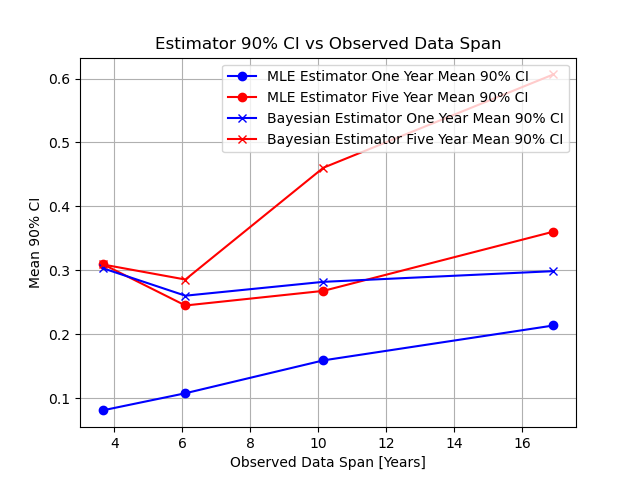
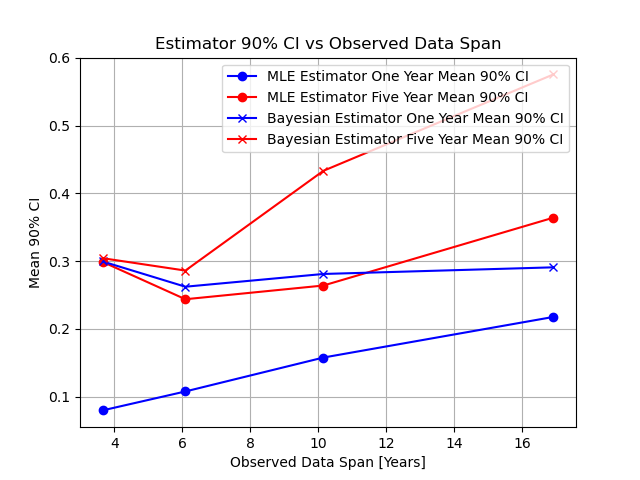
Applied parallel sampling for predictions.

diff --git a/ARIMA/examples/mortality.py b/ARIMA/examples/mortality.py
@@ -7,9 +7,10 @@ import numpy as np
 import pyro
 from torch.distributions.transforms import ExpTransform, AffineTransform
 from pyro.infer import Predictive
+from pyro.ops.stats import quantile
 from ARIMA import BayesianVARIMA
 from ARIMA.Innovations import NormalInnovationsVector, MultivariateNormalInnovations
-from ARIMA.examples.utils import load_mortality_data, calc_percentiles, moving_sum, plots_dir, timeit
+from ARIMA.examples.utils import load_mortality_data, moving_sum, plots_dir, timeit
 from ARIMA.examples import __name__ as __examples__name__
 
 def create_model(obs_idx, n, num_predictions, observations, innovations=MultivariateNormalInnovations):
@@ -62,10 +63,11 @@ if __name__ == "__main__" or __examples__name__ == "__main__":
     guide = fit(model, observations[model.obs_idx])
 
     # Make predictions
-    num_samples = 1000
+    num_samples = 30000
     predictive = Predictive(model.predict,
                             guide=guide,
                             num_samples=num_samples,
+                            parallel=True,
                             return_sites=("_RETURN",))
     samples = predictive(observations[model.obs_idx])['_RETURN']
 
@@ -82,7 +84,7 @@ if __name__ == "__main__" or __examples__name__ == "__main__":
         # Plot confidence interval of predictions
         all_year = np.concatenate((year, year[-1] + (np.arange(len(model.obs_idx) + len(model.predict_idx) - len(year)) + 1) * np.diff(year).mean()))
         idx = sorted(set(np.clip([min(model.predict_idx) - 1, max(model.predict_idx) + 1] + model.predict_idx, 0, len(all_year) - 1)))
-        ci = calc_percentiles(samples[:,idx,n], confidence_interval)
+        ci = quantile(samples[:,idx,n], confidence_interval)
         plt.fill_between(all_year[idx], ci[0], ci[1], color=color, alpha=0.5, label='Predicted {} at 90% CI'.format(name))
         
     plt.xlabel('Year')
@@ -105,12 +107,12 @@ if __name__ == "__main__" or __examples__name__ == "__main__":
     colors=['r', 'b']
     for n, color, name in zip(range(period_samples.shape[-1]), colors, data.columns):
         # Plot observations
-        median = calc_percentiles(period_samples, [0.5])[0]
+        median = quantile(period_samples, [0.5])[0]
         plt.plot(period_all_year,
                  median[:, n], color, label='Observed ' + name)
 
         # Plot confidence interval of predictions
-        ci = calc_percentiles(period_samples[:,-(num_predictions+1):,n], confidence_interval)
+        ci = quantile(period_samples[:,-(num_predictions+1):,n], confidence_interval)
         plt.fill_between(period_all_year[-(num_predictions+1):], ci[0], ci[1], color=color, alpha=0.5, label='Predicted {} at 90% CI'.format(name))
         
     plt.xlabel('Year')
@@ -143,6 +145,7 @@ if __name__ == "__main__" or __examples__name__ == "__main__":
     pre_covid_predictive = Predictive(pre_covid_model.predict,
                                       guide=pre_covid_guide,
                                       num_samples=num_samples,
+                                      parallel=True,
                                       return_sites=("_RETURN",))
     pre_covid_samples = pre_covid_predictive(pre_covid_observations[pre_covid_model.obs_idx])['_RETURN']
 
@@ -157,24 +160,24 @@ if __name__ == "__main__" or __examples__name__ == "__main__":
     colors=['r', 'b']
     for n, color, name in zip(range(period_samples.shape[-1]), colors, data.columns):
         # Plot observations
-        median = calc_percentiles(period_samples, [0.5])[0]
+        median = quantile(period_samples, [0.5])[0]
         plt.plot(period_all_year,
                  median[:, n], color, linewidth=3)
 
         # Plot confidence interval of predictions
-        ci = calc_percentiles(period_samples[:,-(num_predictions+1):,n], confidence_interval)
+        ci = quantile(period_samples[:,-(num_predictions+1):,n], confidence_interval)
         plt.fill_between(period_all_year[-(num_predictions+1):], ci[0], ci[1], color=color, alpha=0.6, label='Predicted Post COVID {} at 90% CI'.format(name))
     
     # Pre COVID predictions
     colors=['g', 'y']
     for n, color, name in zip(range(pre_covid_period_samples.shape[-1]), colors, data.columns):
         # Plot observations
-        median = calc_percentiles(pre_covid_period_samples, [0.5])[0]
+        median = quantile(pre_covid_period_samples, [0.5])[0]
         plt.plot(pre_covid_period_all_year,
                  median[:, n], color)
 
         # Plot confidence interval of predictions
-        ci = calc_percentiles(pre_covid_period_samples[:,-(pre_covid_num_predictions+1):,n], confidence_interval)
+        ci = quantile(pre_covid_period_samples[:,-(pre_covid_num_predictions+1):,n], confidence_interval)
         plt.fill_between(period_all_year[-(pre_covid_num_predictions+1):], ci[0], ci[1], color=color, alpha=0.6, label='Predicted Pre COVID {} at 90% CI'.format(name))
         
     plt.xlabel('Year')
@@ -201,6 +204,7 @@ if __name__ == "__main__" or __examples__name__ == "__main__":
     predictive = Predictive(multi_arima_model.predict,
                             guide=multi_arima_guide,
                             num_samples=num_samples,
+                            parallel=True,
                             return_sites=("_RETURN",))
     multi_arima_samples = predictive(observations[multi_arima_model.obs_idx])['_RETURN']
 
@@ -217,10 +221,10 @@ if __name__ == "__main__" or __examples__name__ == "__main__":
                               colors, linewidths,
                               ['VARIMA', 'Multiple ARIMA']):
         # Plot confidence interval of predictions
-        ci = calc_percentiles(sample[:,-(num_predictions+1):], confidence_interval)
+        ci = quantile(sample[:,-(num_predictions+1):], confidence_interval)
         plt.fill_between(period_all_year[-(num_predictions+1):], ci[0], ci[1], color=color, alpha=0.5, label='{} Predictions at 90% CI'.format(name))
         # Plot observations and median
-        median = calc_percentiles(sample, [0.5])[0]
+        median = quantile(sample, [0.5])[0]
         plt.plot(period_all_year, median, color, linewidth=linewidth, label='{} Predictions Median'.format(name))
     
     plt.xlabel('Year')

diff --git a/ARIMA/examples/bayesian.py b/ARIMA/examples/bayesian.py
@@ -10,8 +10,9 @@ import torch as pt
 import numpy as np
 import pyro
 from pyro.infer import Predictive
+from pyro.ops.stats import quantile
 from ARIMA import BayesianARIMA
-from ARIMA.examples.utils import load_data, calc_percentiles, plots_dir, timeit
+from ARIMA.examples.utils import load_data, plots_dir, timeit
 from ARIMA.pyro_utils import calc_obs_log_prob
 from ARIMA.examples import __name__ as __examples__name__
 from torch.distributions.transforms import ExpTransform, AffineTransform
@@ -63,10 +64,11 @@ if __name__ == '__main__' or __examples__name__ == '__main__':
     guide = fit(model, observations[model.obs_idx])
 
     # Make predictions
-    num_samples = 1000
+    num_samples = 30000
     predictive = Predictive(model.predict,
                             guide=guide,
                             num_samples=num_samples,
+                            parallel=True,
                             return_sites=('_RETURN',))
     samples = predictive(observations[model.obs_idx])['_RETURN']
 
@@ -80,7 +82,7 @@ if __name__ == '__main__' or __examples__name__ == '__main__':
     # Plot confidence interval of predictions
     all_year = np.concatenate((year, year[-1] + (np.arange(len(model.obs_idx) + len(model.predict_idx) - len(year)) + 1) * np.diff(year).mean()))
     idx = sorted(set(np.clip([min(model.predict_idx) - 1, max(model.predict_idx) + 1] + model.predict_idx, 0, len(all_year) - 1)))
-    ci = calc_percentiles(samples[:,idx], confidence_interval)
+    ci = quantile(samples[:,idx], confidence_interval)
     plt.fill_between(all_year[idx], ci[0], ci[1], color='r', alpha=0.5, label='Bayesian Model Estimates at 90% CI')
     
     plt.xlabel('Year')
@@ -109,6 +111,7 @@ if __name__ == '__main__' or __examples__name__ == '__main__':
         samples.append(Predictive(models[-1].predict,
                                   guide=guides[-1],
                                   num_samples=num_samples,
+                                  parallel=True,
                                   return_sites=("_RETURN",))(observations[indices[-1]])['_RETURN'])
 
     plt.figure()
@@ -119,13 +122,13 @@ if __name__ == '__main__' or __examples__name__ == '__main__':
     five_year_mean_ci = []
     median = []
     for span, idx, model, sample, color in zip(spans, indices, models, samples, colors):
-        cis.append(calc_percentiles(sample, confidence_interval))
+        cis.append(quantile(sample, confidence_interval))
         ci = cis[-1][..., model.predict_idx]
         plt.fill_between(all_year[min(idx):][model.predict_idx], ci[0], ci[1],
                          label='Bayesian Estimator at {:.1f} Years Observed Data Span at 90% CI'.format(span), color=color, alpha=0.5)
         one_year_mean_ci.append((ci[1]-ci[0])[:12].mean())
         five_year_mean_ci.append((ci[1]-ci[0]).mean())
-        median.append(calc_percentiles(sample, [0.5])[0, model.predict_idx])
+        median.append(quantile(sample, [0.5])[0, model.predict_idx])
 
     plt.xlabel('Year')
     plt.ylabel('Value')
@@ -143,7 +146,7 @@ if __name__ == '__main__' or __examples__name__ == '__main__':
     plt.xlabel('Observed Data Span [Years]')
     plt.ylabel('Mean 90% CI')
     plt.title('Bayesian Estimator 90% CI vs Observed Data Span')
-    plt.legend(loc='upper right')
+    plt.legend(loc='upper left')
     plt.grid()
 
     output_file_name = plots_dir + '/bayesian_example_span_ci.png'
@@ -165,6 +168,7 @@ if __name__ == '__main__' or __examples__name__ == '__main__':
         missing_samples.append(Predictive(missing_models[-1].predict,
                                           guide=missing_guides[-1],
                                           num_samples=num_samples,
+                                          parallel=True,
                                           return_sites=("_RETURN",))(observations[obs_idx])['_RETURN'])
 
     # Calculate conditional probabilities of observing the missing samples given the known samples
@@ -182,7 +186,7 @@ if __name__ == '__main__' or __examples__name__ == '__main__':
                                        missing_prob_observations[-1].obs_log_prob).detach().numpy())
 
     # Calculate confidence intervals of predictions
-    missing_cis = [calc_percentiles(s[...,m.predict_idx], confidence_interval) for s, m in zip(missing_samples, missing_models)]
+    missing_cis = [quantile(s[...,m.predict_idx], confidence_interval) for s, m in zip(missing_samples, missing_models)]
     missing_mean_cis = [(ci[1] - ci[0]).mean() for ci in missing_cis]
 
     # Plot predictions and actuals

diff --git a/ARIMA/examples/mle.py b/ARIMA/examples/mle.py
@@ -8,11 +8,11 @@ Raw data downloaded from https://www.key2stats.com/data-set/view/764.
 import matplotlib.pyplot as plt
 import torch as pt
 import numpy as np
-import os
 from ARIMA import ARIMA
-from ARIMA.examples.utils import load_data, calc_percentiles, plots_dir, timeit
+from ARIMA.examples.utils import load_data, plots_dir, timeit
 from ARIMA.examples import __name__ as __examples__name__
 from torch.distributions.transforms import ExpTransform
+from pyro.ops.stats import quantile
 
 def create_model():
     return ARIMA(3, 0, 1, 0, 1, 2, 12, output_transforms=[ExpTransform()])
@@ -38,13 +38,10 @@ def fit(model, observations,
 
 def predict(model, innovations, num_samples, num_predictions):
     variance = (innovations**2).mean()
-    samples = []
-    for count in range(num_samples):
-        new_innovations = pt.randn(num_predictions) * variance.sqrt()
-        all_innovations = pt.cat([innovations, new_innovations])
-        all_observations = model.predict(all_innovations).detach().numpy()
-        samples.append(all_observations)
-    return np.array(samples)[..., len(innovations):]
+    new_innovations = pt.randn(num_samples, num_predictions) * variance.sqrt()
+    all_innovations = pt.cat([pt.stack([innovations] * num_samples), new_innovations], dim=-1)
+    all_observations = model.predict(all_innovations)
+    return all_observations[..., len(innovations):]
 
 if __name__ == "__main__" or __examples__name__ == "__main__":
     ##########################################
@@ -56,7 +53,7 @@ if __name__ == "__main__" or __examples__name__ == "__main__":
 
     fit_result = fit(model, observations)
     
-    num_samples = 1000
+    num_samples = 30000
     num_predictions = 5 * 12
     samples = predict(model, fit_result['innovations'], num_samples, num_predictions)
 
@@ -69,7 +66,7 @@ if __name__ == "__main__" or __examples__name__ == "__main__":
 
     # Plot confidence interval of predictions
     samples_year = max(year) + (np.arange(num_predictions) + 1) * np.diff(year).mean()
-    ci = calc_percentiles(samples, confidence_interval)
+    ci = quantile(samples, confidence_interval).detach().numpy()
     plt.fill_between([year[-1]] + list(samples_year),
                      [observations[-1]] + list(ci[0]),
                      [observations[-1]] + list(ci[1]),
@@ -108,12 +105,12 @@ if __name__ == "__main__" or __examples__name__ == "__main__":
     five_year_mean_ci = []
     median = []
     for span, idx, sample, color in zip(spans, indices, samples, colors):
-        cis.append(calc_percentiles(sample, confidence_interval))
+        cis.append(quantile(sample, confidence_interval).detach().numpy())
         plt.fill_between(samples_year, cis[-1][0], cis[-1][1],
                          label='MLE Estimator at {:.1f} Years Observed Data Span at 90% CI'.format(span), color=color, alpha=0.5)
         one_year_mean_ci.append((cis[-1][1]-cis[-1][0])[:12].mean())
         five_year_mean_ci.append((cis[-1][1]-cis[-1][0]).mean())
-        median.append(calc_percentiles(sample, [0.5])[0])
+        median.append(quantile(sample, [0.5])[0].detach().numpy())
     
     plt.xlabel('Year')
     plt.ylabel('Value')

diff --git a/ARIMA/examples/utils.py b/ARIMA/examples/utils.py
@@ -27,7 +27,7 @@ def load_mortality_data():
     new_time = [value.to_timestamp().to_julian_date() for value in new_time]
     data['Date'] = time
     data = data.set_index('Date')
-    data = data.reindex(pd.unique(sorted(list(data.index)) + new_time))
+    data = data.reindex(pd.unique(np.array(sorted(list(data.index)) + new_time)))
     data = data.interpolate('index')
     data = data.reindex(new_time)
     data.index = pd.to_datetime(data.index, origin='julian', unit='D')
@@ -39,11 +39,6 @@ def load_data():
     year = data['time'].to_numpy()
     observations = pt.Tensor(data['value'])
     return year, observations
-
-def calc_percentiles(samples, percentiles):
-    samples = np.sort(samples, axis=0)
-    indices = [int(np.floor(p * samples.shape[0])) for p in percentiles]
-    return samples[indices]
 
 def moving_sum(data, window_len, dim):
     select = [slice(None)] * len(data.shape)
